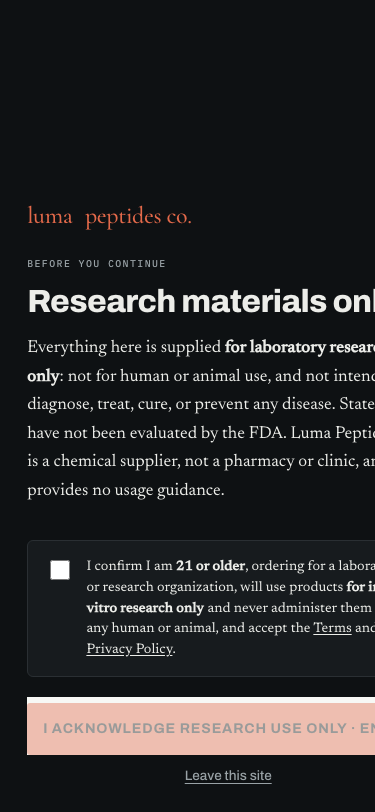
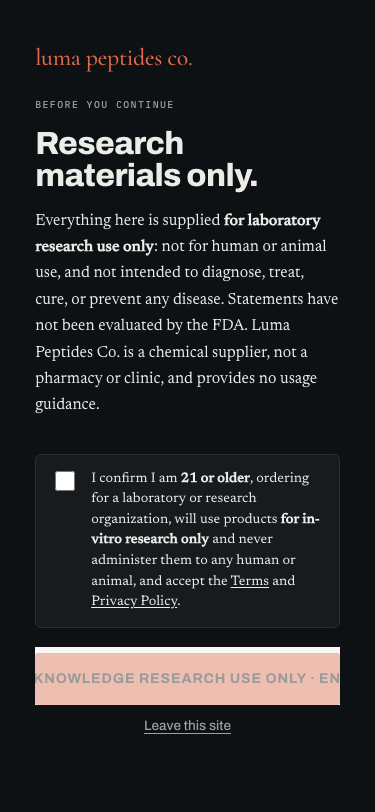
V2 gate: fit within phone viewport; wordmark spacing; refreshed screenshots

Changed region(s): [[0.0587, 0.1232, 1.0, 0.9852], [0.088, 0.0616, 0.4987, 0.0924], [0.1173, 0.6773, 0.2053, 0.7389]]

diff --git a/V2/css/styles.css b/V2/css/styles.css
@@ -935,3 +935,9 @@ body.dark-top .nav .btn-primary:hover{background:var(--on-dark)}
 .gate :focus-visible{outline:2px solid var(--accent-on-dark);outline-offset:3px}
 .gate-affirm{display:none}
 @media(prefers-reduced-motion:reduce){.gate,.gate-card{animation:none}}
+/* Gate: flex column so the card can never exceed the viewport (grid auto-tracks sized it to content) */
+.gate{display:flex;flex-direction:column;align-items:center;justify-content:center}
+.gate-card{width:100%;max-width:560px;min-width:0;box-sizing:border-box}
+.gate-card h2{overflow-wrap:anywhere;text-wrap:balance}
+.gate-card .logo span+span{margin-left:0}
+@media(max-width:520px){.gate{justify-content:flex-start;padding:1.6rem 1.1rem 2rem}.gate-card h2{font-size:2rem}.gate-body p{font-size:1rem}.gate-check{font-size:.92rem;padding:.85rem .9rem}}

diff --git a/V2/js/site.js b/V2/js/site.js
@@ -232,7 +232,7 @@
 <div class="toast" id="toast" role="status" aria-live="polite"></div>
 <div class="gate" id="gate" hidden>
  <div class="gate-card" role="dialog" aria-modal="true" aria-labelledby="gateTitle" aria-describedby="gateBody">
-  <div class="logo" aria-hidden="true"><span>luma</span> <span>peptides co.</span></div>
+  <div class="logo" aria-hidden="true"><span>luma</span><span> peptides co.</span></div>
   <span class="eyebrow">Before you continue</span>
   <h2 id="gateTitle">Research materials only.</h2>
   <div class="gate-body" id="gateBody">
